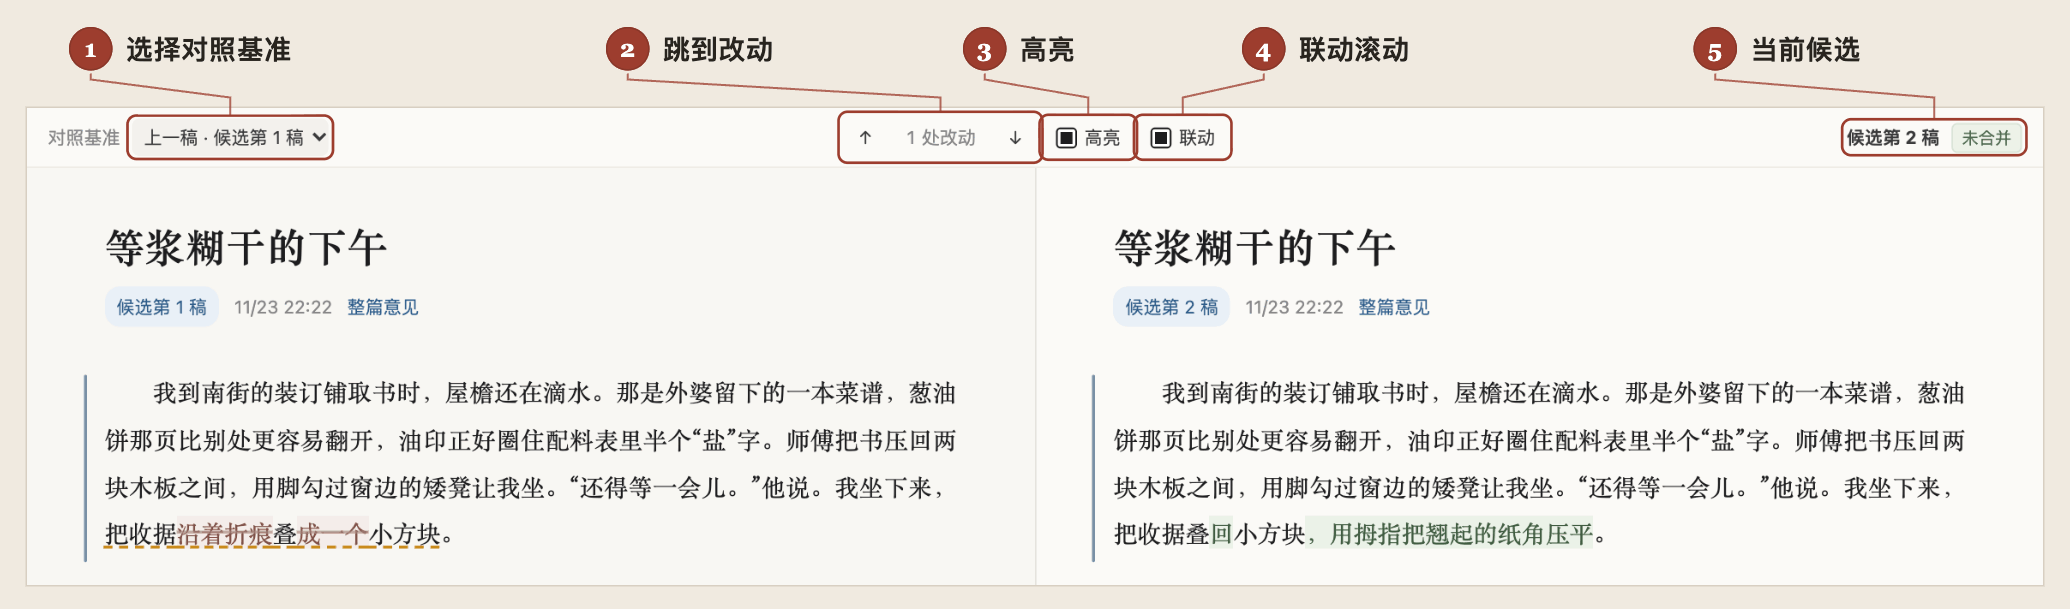
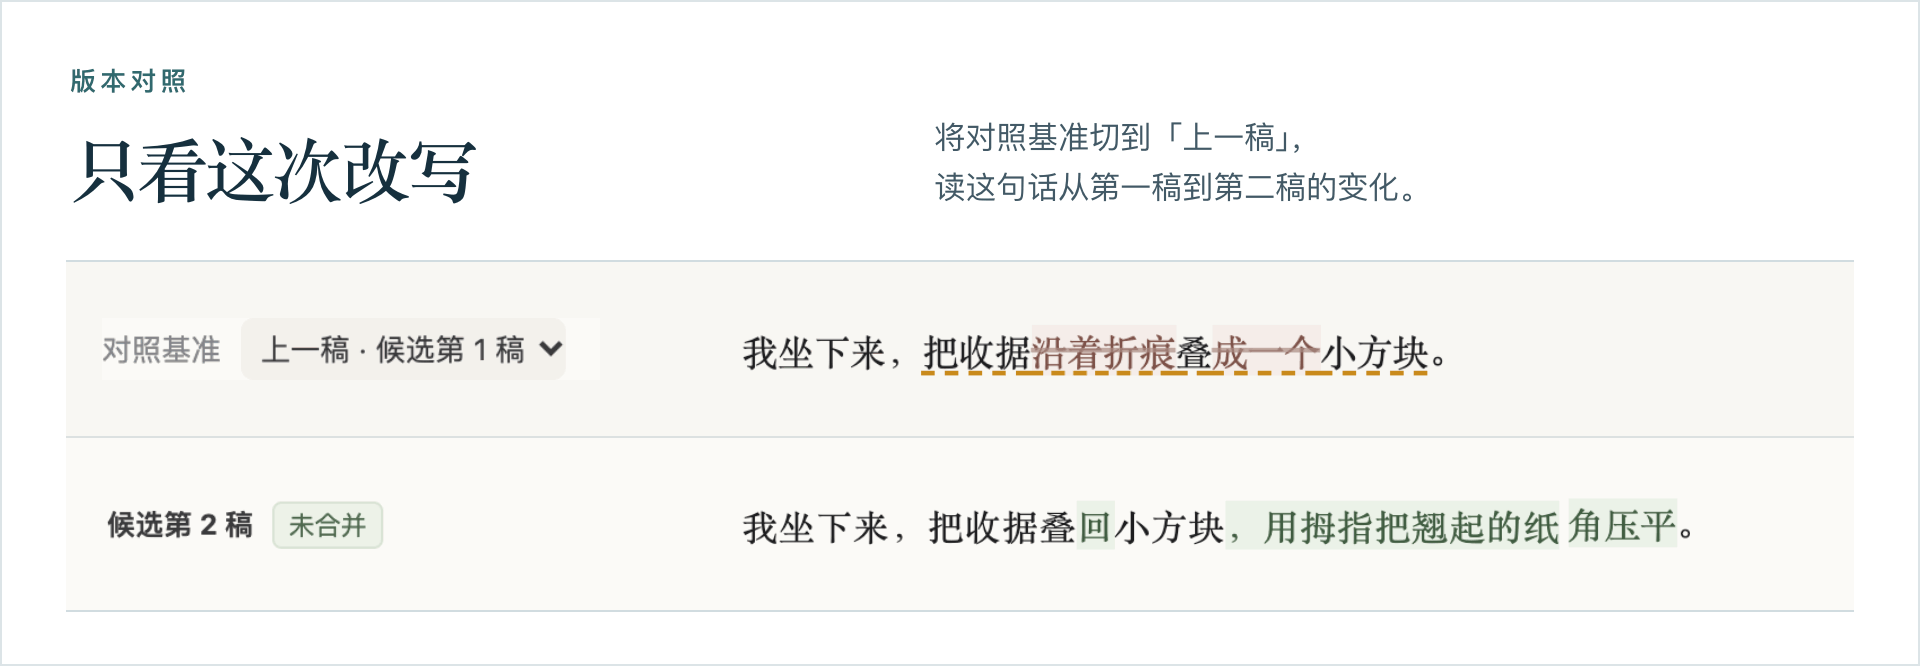
用真实选文和稿次重做桌面与手机使用导览

diff --git a/README.md b/README.md
@@ -10,7 +10,7 @@
 
 ## 先试示例
 
-下载并**解压**整个仓库。建议先打开随附的散文《等浆糊干的下午》，里面已经准备好两份候选稿和几条批注，可以马上切换基准、试写意见。示例与自己的书稿分开保存。[下载 ZIP](https://github.com/SSSimpleC/draftpair/archive/refs/heads/main.zip) · [版本发布](https://github.com/SSSimpleC/draftpair/releases/latest)
+下载并**解压**整个仓库。建议先打开随附的散文《等浆糊干的下午》，里面已经准备好两份候选稿和几条批注，可以马上切换基准、试写意见。示例与自己的书稿分开保存。[下载 ZIP](https://github.com/SSSimpleC/draftpair/releases/latest/download/DraftPair.zip) · [版本发布](https://github.com/SSSimpleC/draftpair/releases/latest)
 
 | 系统 | 第一次怎么打开 |
 | --- | --- |
@@ -86,42 +86,50 @@ python3 -m venv .venv
 
 ## 如何使用
 
-### 阅读一份文稿
+打开示例《等浆糊干的下午》，可以跟着下面三张图走一遍。自己的新文稿从阅读开始，写作助手发布第一份候选稿后就能打开对照。
 
-![阅读界面五个区域的带编号导览](docs/guide-reading.png)
+### 阅读时，怎么知道眼前是哪一稿？
 
-| 图中位置 | 可以做什么 |
+<picture>
+  <source media="(max-width: 620px)" srcset="docs/guide-reading-mobile.png">
+  <img src="docs/guide-reading.png" alt="在顶栏选择按篇、阅读，再从阅读版本里选候选第 1 稿。正文标题下的蓝色版签会变成候选第 1 稿。">
+</picture>
+
+- **找一篇、读一稿。** 左上角的目录可以跳到篇名或小标题。在「阅读版本」中选一稿，正文标题下的版签会显示你实际打开的版本。即使目录提示已有第 2 稿，你也能回看第 1 稿。
+- **从头通读。** 点「连续全文」。选「工作稿」会串起各篇最新候选，没有候选的篇目沿用正式稿。选「正式稿」可以通读磁盘上的原文。
+- **边读边看批注。** 右上角打开「批注」，点一条就能回到它引用的原句。默认最新在前，切到「文章顺序」后还可打开「跟随正文」，让右栏随你读到的位置滚动。
+
+### 对照时，第二稿究竟动了哪一句？
+
+<picture>
+  <source media="(max-width: 620px)" srcset="docs/guide-compare-mobile.png">
+  <img src="docs/guide-compare.png" alt="以候选第 1 稿为对照基准，查看未合并的第 2 稿。收据从沿折痕叠成小方块，改为用拇指把翘起的纸角压平。">
+</picture>
+
+**右边是本篇最新候选，左边由你选基准。** 默认左边的「本轮原稿 · 修订前」是本轮第一次保存批注时固定的正文，用它可以看累计改动。从第 2 稿起，选「上一稿」就能只看这一次。图里收据的动作从「把收据沿着折痕叠成一个小方块」改成了「把收据叠回小方块，用拇指把翘起的纸角压平」。右栏的「未合并」表示这句话还在候选里。
+
+用上下箭头跳到前后两处改动。「高亮」标出左边删去、右边加入的字，「联动」使两栏同时滚到对应段落。窄窗可以点版本按钮切换左右稿。两边都能选中批注，想找回删掉的原话，就在左边圈住那句写「恢复这句」。
+
+### 圈一句话，交给写作助手
+
+<picture>
+  <source media="(max-width: 620px)" srcset="docs/guide-annotation-mobile.png">
+  <img src="docs/guide-annotation.png" alt="圈住「屋檐还在滴水」，点批注。任选意见或逐字替换，保存后核对并提交批次，再复制给写作助手。">
+</picture>
+
+选中原句，点旁边浮出的「批注」。可以只圈一个标点，也能圈连续几段。图、表、单元格、题注和整篇文稿也各有批注入口。同一句话可以用两种方式提出修改，**任选一种**。
+
+| 你的想法 | 在批注框里怎么写 |
 | --- | --- |
-| **① 文稿目录** | 跳到某一篇或篇内标题，收起后可留出更多阅读空间。 |
-| **② 阅读版本** | 选择磁盘上的正式稿、最新候选或历史稿。图中正在读**候选第 1 稿**，而目录里标的是这篇已经有的**最新第 2 稿**。 |
-| **③ 阅读范围** | 「按篇」看一篇，「连续全文」顺着项目目录往下读。全文的「工作稿」优先用各篇最新候选，「正式稿」读取实际源文件。 |
-| **④ 阅读／对照** | 阅读时以单栏看一稿。该篇有候选后，点「对照」可看修改前后。新书稿还没有候选时，从圈选第一条批注开始。 |
-| **⑤ 批注栏** | 点一条意见，跳回所引原句。可按新旧或文章顺序排列。开启「跟随正文」后，侧栏会随阅读位置平滑滚动。 |
+| 想让助手斟酌 | 选「意见」，例如“滴水落在哪里？想让读者听见雨已经小了。” |
+| 已经想好原句怎么改 | 选「逐字替换」。输入框会预填选文，直接改成“雨篷还往门边的铁皮桶里滴水”。清空表示删除所选文字。 |
 
-### 看清左边和右边各是哪一稿
+1. **保存这一条。** 按 **Enter** 保存，**Shift+Enter** 换行。按 **Esc** 收起草稿，之后可以在批注栏里续写。浮窗挡住正文时，可按住顶部留白拖开。
+2. **核对并提交这一批。** 顶栏点「提交批注」，在确认框看清引自哪一稿、圈了哪句话和要求改到哪一稿，再点「提交」。确认前可修改或撤回。提交后想补充，可以再圈同一处说明。
+3. **让助手出候选稿。** 点成功提示或批注栏里的「复制给写作助手」，把交接文字粘贴到能访问文稿的 agent 对话中。它能从本机路径找到各批尚未处理的意见。已经接入同一项目时，也可以这么说。
 
-![对照界面的基准、改动导航、高亮、联动与候选状态](docs/guide-compare.png)
+> 处理对稿里最新提交的批注，按各篇当前父稿逐条修改。请发布候选稿，告诉我回到哪一篇看对照。正式文件等我确认后再合并。
 
-**① 左栏是对照基准，⑤ 右栏是本篇最新候选。** 默认用「本轮原稿 · 修订前」作基准，可以看到累计改动。从候选第 2 稿起，左栏也可以选「上一稿」。图中左边是第 1 稿，右边是第 2 稿，正好能单看第二次改了什么。**「未合并」表示右栏的文字仍保存在审阅数据中。**
-
-用 **② 箭头** 跳到上一处或下一处改动。**③ 高亮** 标出左侧删除的字和右侧新增的字。**④ 联动** 让两栏滚动到对应段落。窗口较窄时，可以在两个版本之间切换。两栏都能批注，因此也可以圈住左栏一句已经删掉的话，写下「恢复这句」。
-
-### 选中文字，写意见或逐字替换
-
-![在原句旁创建批注、切换两种输入方式，并将批次交给写作助手](docs/guide-annotation.png)
-
-1. **① 选中原句，点「批注」。** 可以只选一个标点，也可以选连续几段。图、表、单元格、题注和整篇文稿也有相应的批注入口。
-2. **② 想让助手斟酌，就选「意见」。** 例如圈住「屋檐还在滴水」，写「滴水落在哪里？想让读者听见雨已经小了。」
-3. **③ 已经想好措辞，就选「逐字替换」。** 输入框预填选文，可以直接改成「雨篷还往门边的铁皮桶里滴水」。清空替换文字表示删除选文。按 **Enter** 保存，**Shift+Enter** 换行，**Esc** 收起稍后续写。输入框挡住正文时，按住顶部留白拖开即可。
-4. **④ 攒好几条后点「提交批注」。** 在确认框核对原句、稿次和意见，再提交这一批。在确认之前，待提交的意见还可以修改或撤回。提交后若想纠正一条意见，可在同一处补一条批注，说明以哪条为准。
-5. **⑤ 点「复制给写作助手」，粘贴到 agent 的聊天中。** 提交后的提示和批注侧栏都提供这个入口。交接包含本机项目的准确路径，agent 可以据此找到尚待处理的各批意见。
-
-### 让 agent 出稿，满意后再合并
-
-**出候选稿时**，把刚复制的交接文字发给 agent。已经接入同一项目时，也可以直接发这句话。
-
-> 处理对稿里最新提交的批注，基于各篇当前父稿逐条修改。请发布新的候选稿，告诉我回到哪一篇看对照。正式稿等我确认后再合并。
-
-切回审阅页或刷新，打开「对照」。如果还要调整，就在新候选上继续批注、提交并请 agent 出下一稿。**只在准备写回源文件时**，再把篇名和稿次告诉它。
+切回审阅页或刷新，打开「对照」。还想再改，就在新候选上继续批注。**提交批注、发布候选都保存在审阅数据里。** 等一篇或一个阶段定下来，再明确告诉助手要写回哪篇、哪一稿。
 
 > 把《等浆糊干的下午》的候选第 2 稿合并到正式文件。先核对磁盘上另做的修改，若同一处有冲突，把两种文字列出来给我选。其他篇继续修订。
